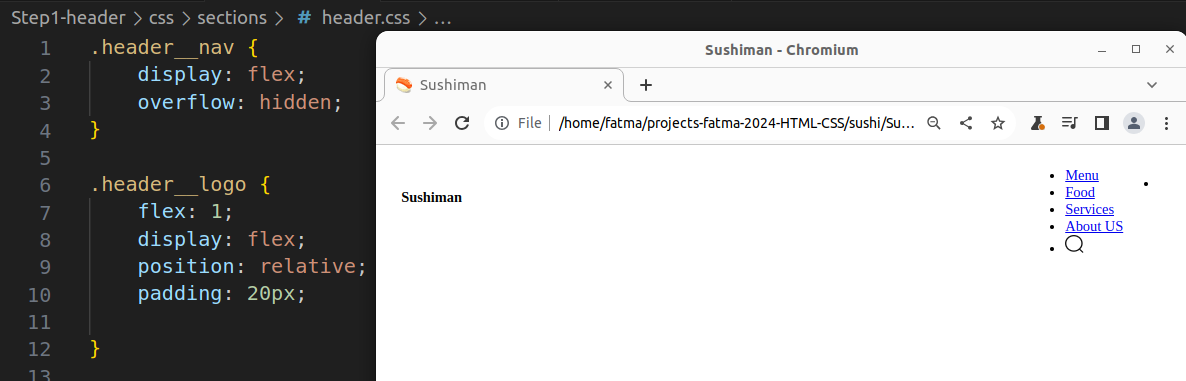
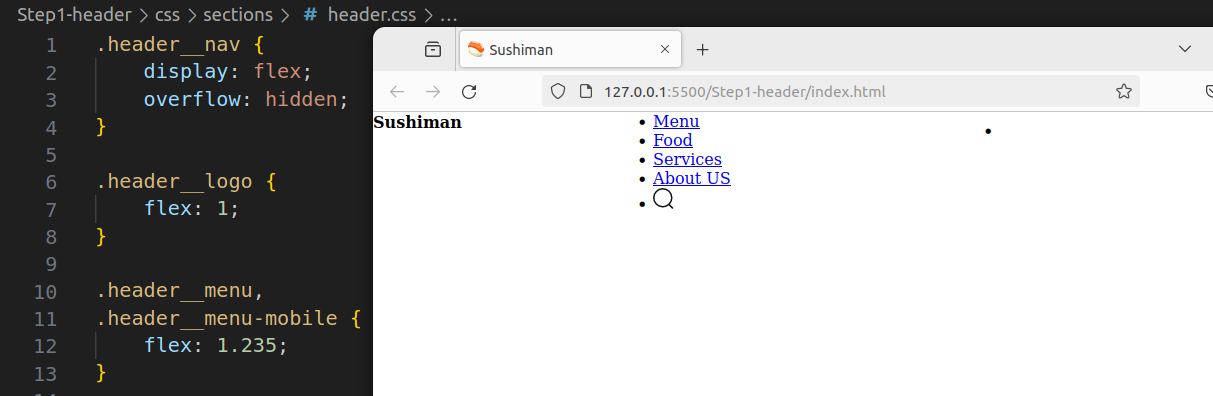
Step1-header

diff --git a/Step1-header/css/sections/header.css b/Step1-header/css/sections/header.css
@@ -5,11 +5,22 @@
 
 .header__logo {
     flex: 1;
+    display: flex;
+    position: relative;
+    padding: 20px;
 }
+
+.header__logo-overlay {
+    width: 100%;
+    position: absolute;
+    inset: 0;
+}
+
+.header__logo h4 {}
+
+
 
 .header__menu,
 .header__menu-mobile {
     flex: 1.235;
 }
-
-

diff --git a/Step1-header/README.md b/Step1-header/README.md
@@ -37,11 +37,34 @@
 
 ![step1-09](https://github.com/fatmakhaledosman/Sushi-Themed-Website-step-by-step/blob/main/Step1-header/images-readme-file/img1-09.png)
 
+---------------------------------------------
+### 7.In css/style.css file,
+![step1-10]()
+#### - The CSS margin properties are used to create space around elements, outside of any defined borders.
+#### - An element's padding is the space between its content and its border.
+#### - box-sizing: border-box; on an element ---> padding and border are included in the width and height.
+#### - Adding a smooth scrolling effect to the document.
 
 ### 7.In css/sections/header.css file,
-![step1-10](https://github.com/fatmakhaledosman/Sushi-Themed-Website-step-by-step/blob/main/Step1-header/images-readme-file/img1-10.png)
-#### Notice that the elements appear in a row , first the title , then ul element , then menu.
+![step1-11]()
+#### Notice that with display:flex; the elements appear in a row , first the title (flex:1) , then the ul menu element(flex:1.235) ,then the menu-mobile (flex:1.235).
+### The CSS overflow property controls what happens to content that is too big to fit into an area.
+##### The overflow property specifies whether to clip the content or to add scrollbars when the content of an element is too big to fit in the specified area.
+##### The overflow property has the following values:
 
+   ##### visible - Default. The overflow is not clipped. The content renders outside the element's box
+   ##### hidden - The overflow is clipped, and the rest of the content will be invisible
+   ##### scroll - The overflow is clipped, and a scrollbar is added to see the rest of the content
+   ##### auto - Similar to scroll, but it adds scrollbars only when necessary
+
+##### Note: The overflow property only works for block elements with a specified height.
+
+
+
+### left-side part 
+![step1-12]()
+### position: absolute; inside position: relative;
+---------------------------------------------------------
 ![step1-11](https://github.com/fatmakhaledosman/Sushi-Themed-Website-step-by-step/blob/main/Step1-header/images-readme-file/img1-11.png)
 #### class of flex:1; means that it will expand however long it needs to. the sushiman is on the left side and the menu is on the right side.
 
